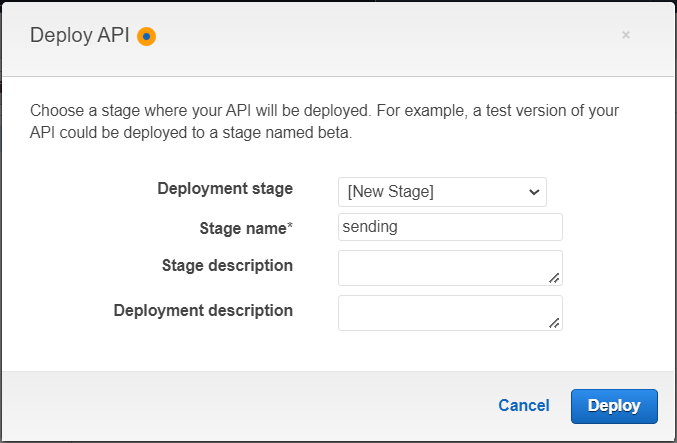
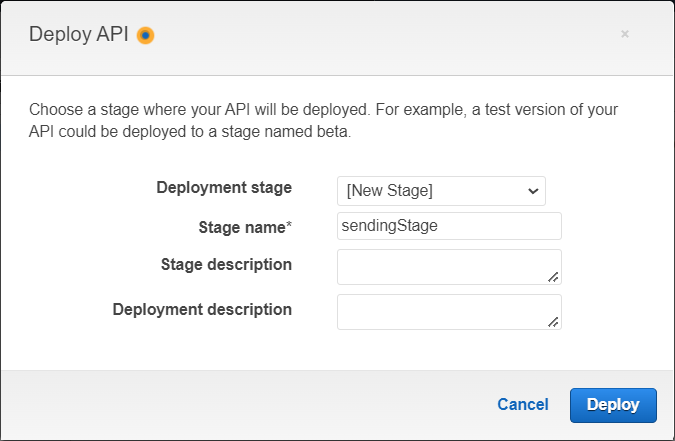
Modify part 8 of project 2

diff --git a/projects/project-2/part-8/README.md b/projects/project-2/part-8/README.md
@@ -20,13 +20,21 @@ Here, choose to create a *New API* of type *REST*. Give the API a suitable name 
 
 ![REST API Creation](images/rest-api-creation.png ':size=900')
 
-Once the API is created, click on the **Actions** button and select **Create Method**:
+Once the API is created, click on the **Actions** button and select **Create Resource**:
+
+![Create Resource](images/create-resource.png ':size=200')
+
+Enter the name of the resource (here *sending*) and create the resource:
+
+![Resource Configuration](images/resource-configuration.png ':size=700')
+
+Once the resource created, click on the **Actions** button and select **Create Method**
 
 ![Create Method](images/create-method.png ':size=200')
 
 A field will appear, where the *POST* method should be selected, since the purpose will be to publish the data from the website to the API.
 
-When setting up the POST method, choose *Lambda Function* as the **Integration type**, entering the newly created REST API Handler (*restApiHandler*) in the **Lambda Function** field:
+When setting up the POST method, choose *Lambda Function* as the **Integration type**, entering the newly created REST API Handler (*restApiHandler*) in the **Lambda Function** field, and do NOT forget to **Use Lambda Proxy Integration**:
 
 ![POST Setup](images/post-setup.png ':size=700')
 
@@ -40,7 +48,7 @@ All that remains is to deploy the API, doing **Action** -> **Deploy API**:
 
 ![Deploy API](images/deploy-api.png ':size=200')
 
-Make a *[New Stage]*, and choose the **Stage name** of your choice (*sending* in this example):
+Make a *[New Stage]*, and choose the **Stage name** of your choice (*sendingStage* in this example):
 
 ![Deployment Stage](images/deployment-stage.png ':size=500')
 
